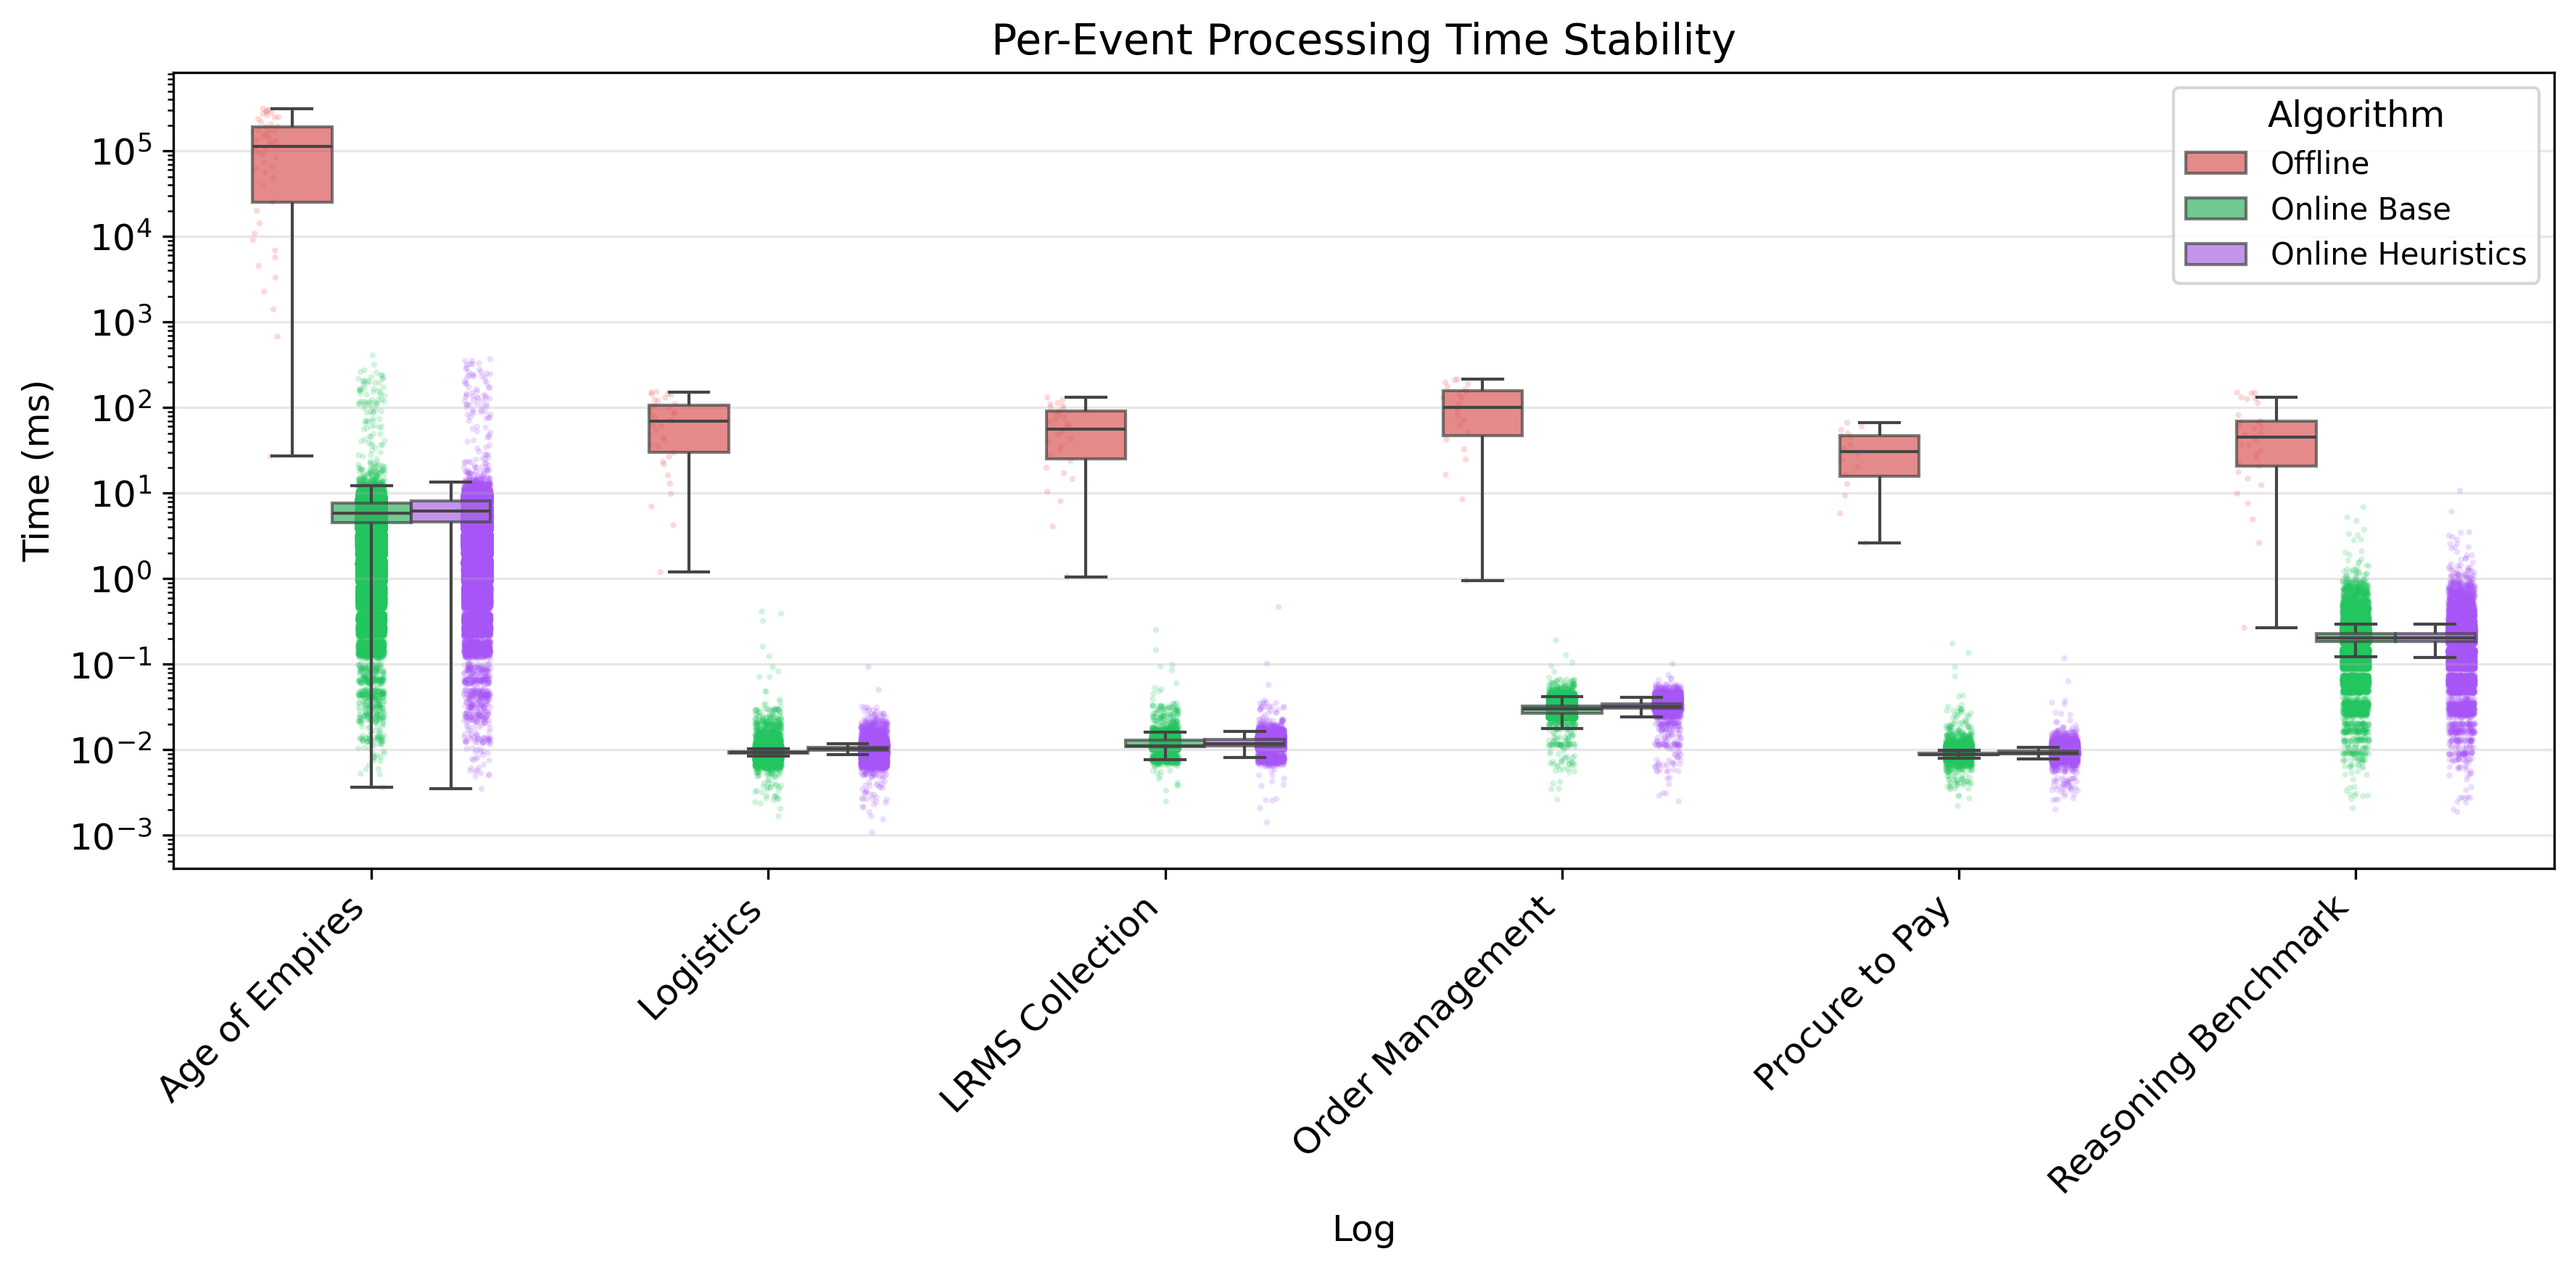
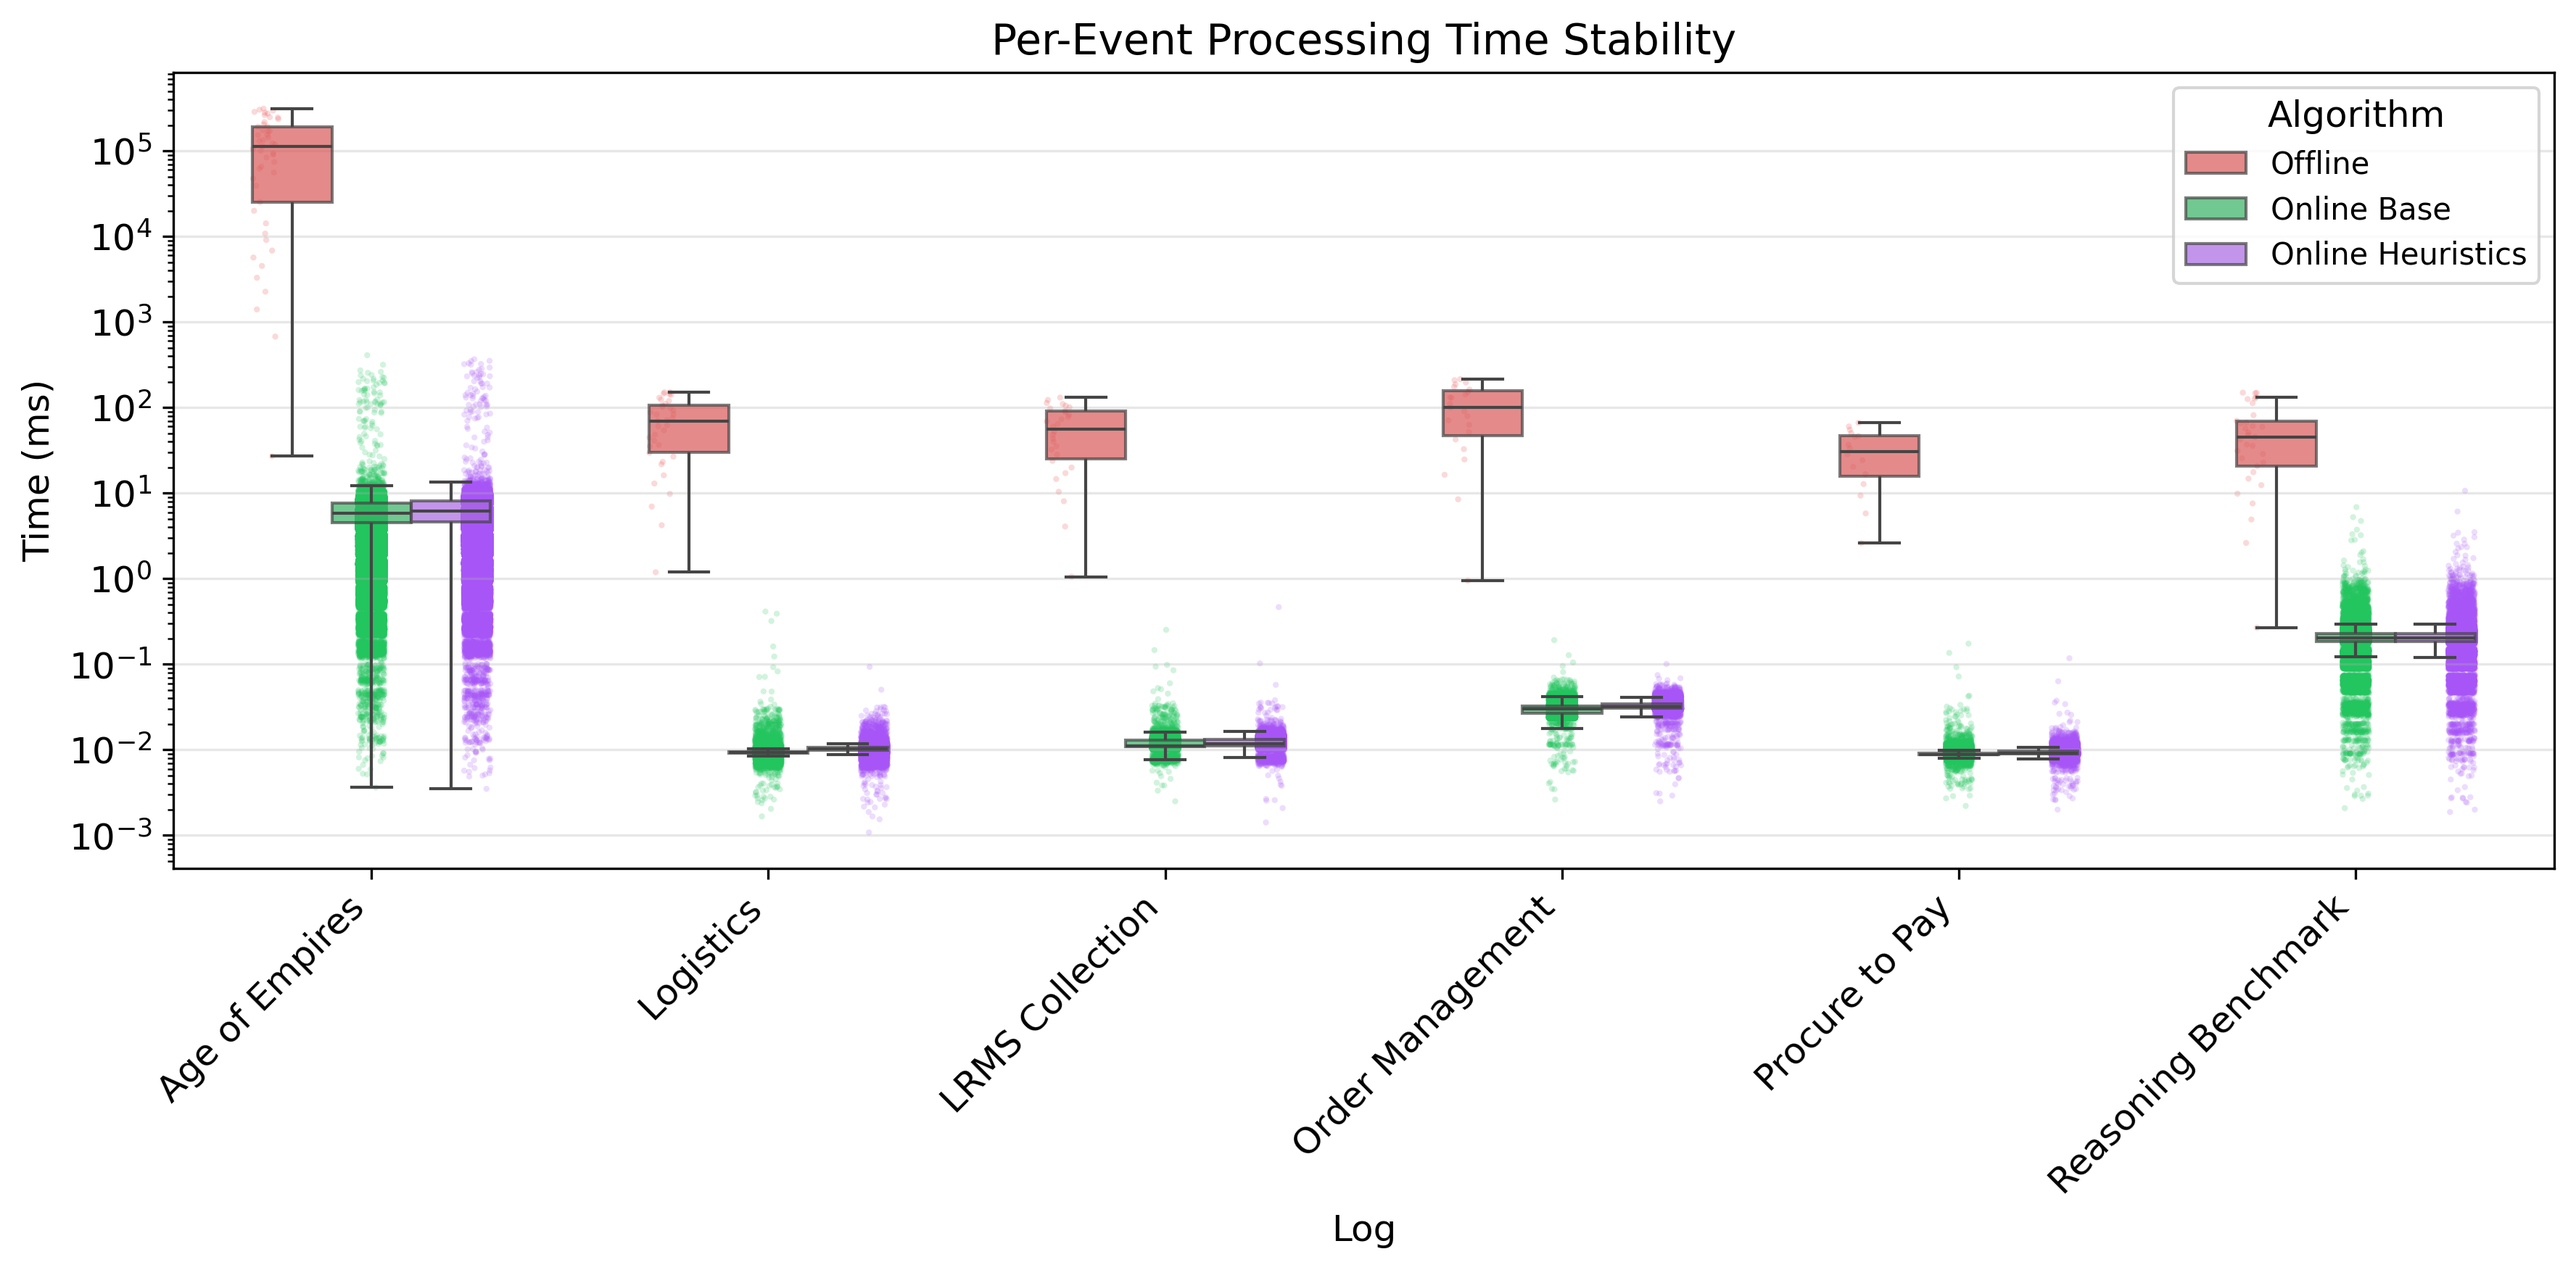
minor changes

diff --git a/evaluation/visualize_all.py b/evaluation/visualize_all.py
@@ -273,9 +273,9 @@ def run_experiment_2(df, base_dir):
             ax_dev = ax_mem.twinx()
             diff_heur = log_df.dropna(subset=['heur_extra_arcs', 'heur_missing_arcs'])
             ln3 = ax_dev.plot(diff_heur['event_index'], diff_heur['heur_extra_arcs'], 
-                              label='FP Ratio', color='#f59e0b', linestyle='-', linewidth=2)
+                              label='FDR (FP / (FP + TP))', color='#f59e0b', linestyle='-', linewidth=2)
             ln4 = ax_dev.plot(diff_heur['event_index'], diff_heur['heur_missing_arcs'], 
-                              label='FN Ratio', color='#dc2626', linestyle='--', linewidth=2)
+                              label='FNR (FN / (FN + TP))', color='#dc2626', linestyle='--', linewidth=2)
             ax_dev.set_ylabel('Structural Deviation (0-1)')
             ax_dev.set_ylim(-0.05, 1.05)
             
